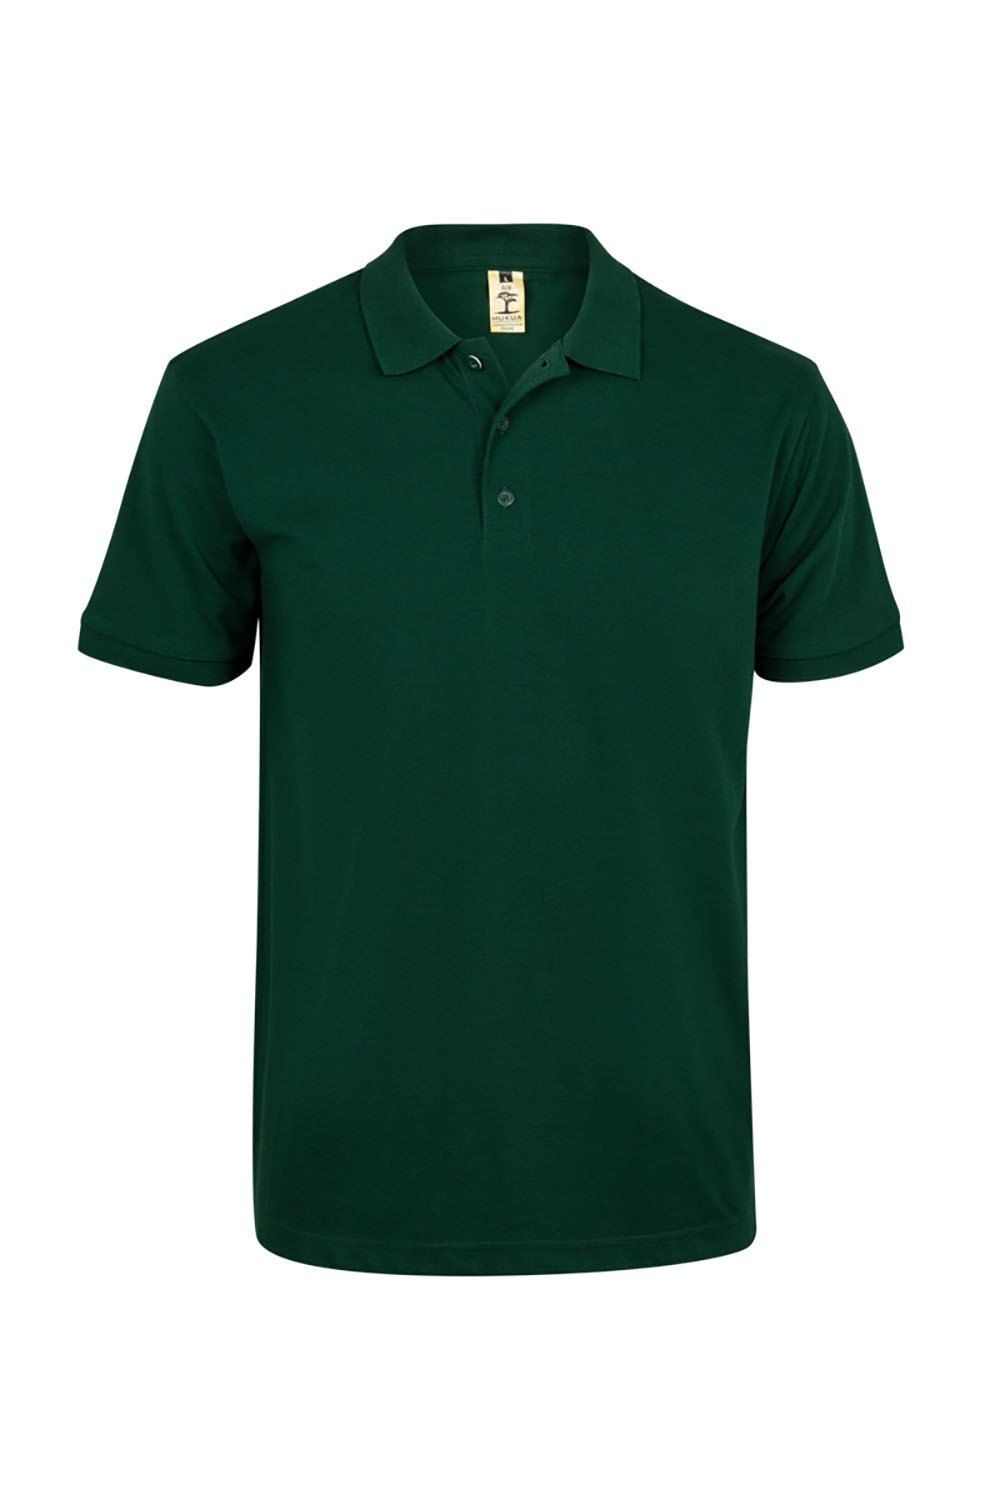
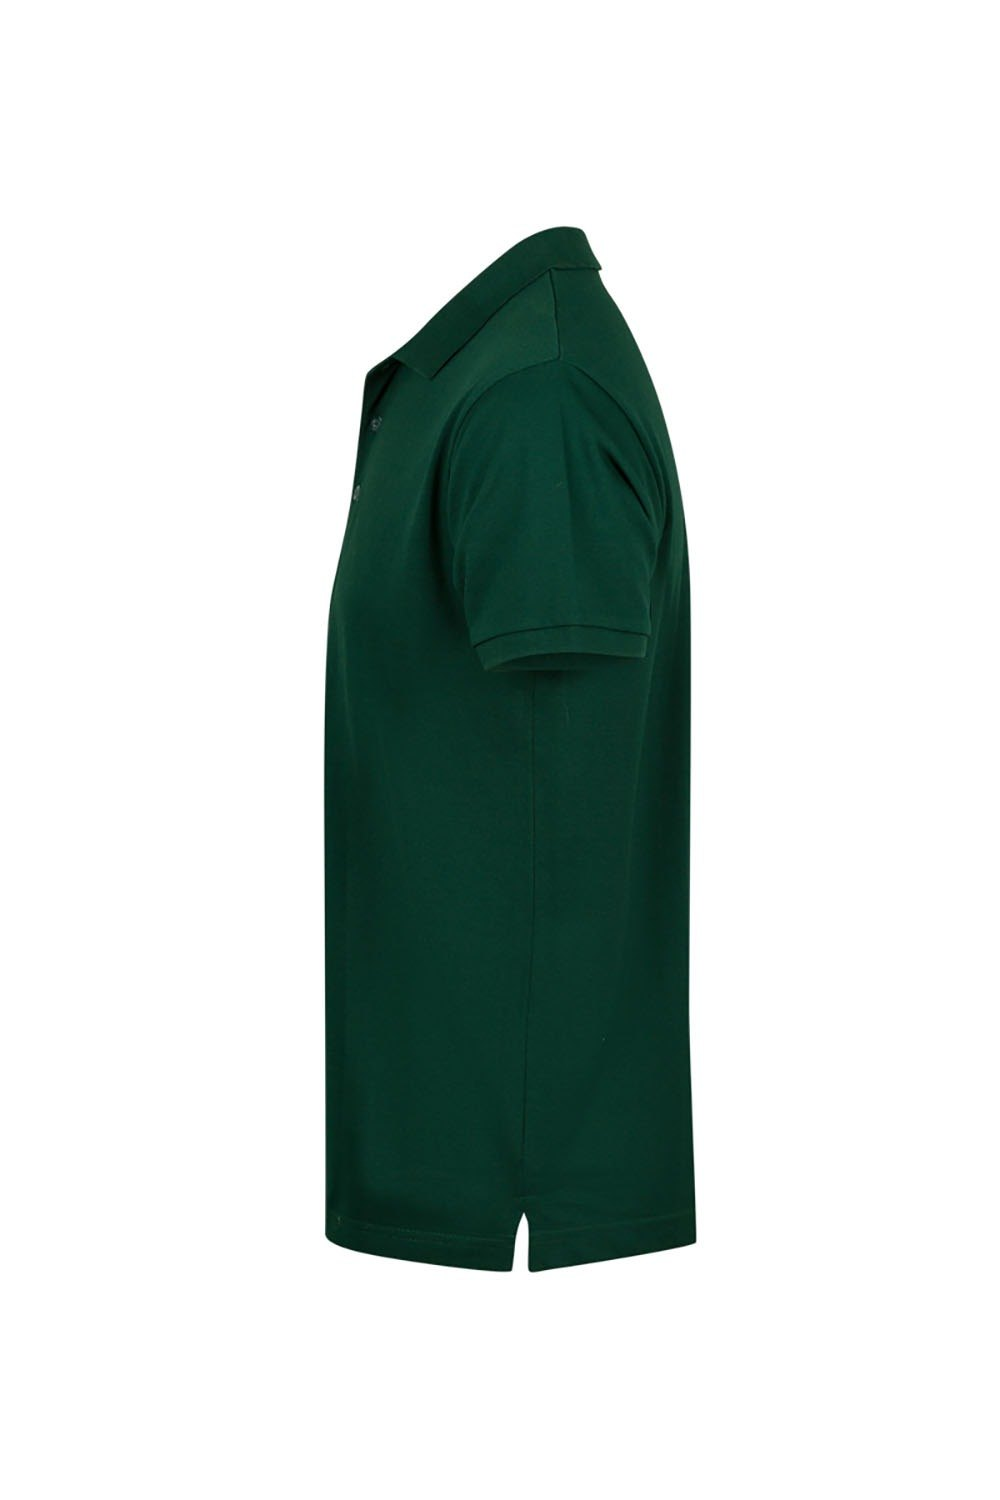
Polo MK215CV : photos par coloris, dix-neuf sur vingt
Cinquante-sept photos d'atelier remplacent la photo de groupe unique du
fournisseur. Seul le blanc reste à photographier ; il garde donc la photo
de groupe en repli, plutôt qu'un polo d'un autre coloris.

Le classement automatique a demandé deux changements de fond, que le
nuancier du t-shirt technique n'exigeait pas :

Le regroupement des vues d'un même vêtement se faisait par proximité de
couleur. De proche en proche, un marron sombre, un noir et un kaki foncé
finissaient dans le même paquet. Les vues d'un même polo se suivant à la
prise de vue, on coupe désormais la suite ordonnée sur les ruptures de
teinte : dix-neuf séries de trois, stable de 18 à 30 de seuil.

L'attribution des coloris se faisait série par série, chacune prenant sa
pastille la plus proche. Deux verts très voisins désignaient tous deux
Kelly Green et laissaient Real Green vide. L'attribution est maintenant
globale et un-à-un : elle minimise le total des écarts, ce qui tranche
d'elle-même ce genre de cas.

Vérifié : les vingt pastilles du catalogue, chaque photo posée à côté de
sa référence fournisseur, et le changement d'image au clic.

diff --git a/src/data/products.ts b/src/data/products.ts
@@ -922,115 +922,209 @@ export const products: Product[] = [
     grammage: "210 g/m²",
     cut: "Regular, patte 3 boutons, fentes latérales",
     sizes: ["S", "M", "L", "XL", "2XL", "3XL", "4XL", "5XL"],
-    // Aucun packshot par coloris publie : seules les pastilles existent.
+    // Le fournisseur ne publie qu'une photo de groupe. Les coloris ci-dessous
+    // portent les visuels pris a l'atelier, herberges avec le site.
     packshotSource: "none",
     colors: [
       {
-        // Blanc vendu sous la reference MK215WV, avec son propre visuel.
         name: "White",
         slug: "100",
         swatch: "https://stospweb0pro01a237.blob.core.windows.net/media/colors/media/thumbnails/100_100.jpg",
-        images: [
-          "https://stospweb0pro01a237.blob.core.windows.net/media/product/media/thumbnails/MK215WV_SERIE_01_1000.jpg",
-        ],
       },
       {
         name: "Black",
         slug: "200",
         swatch: "https://stospweb0pro01a237.blob.core.windows.net/media/colors/media/thumbnails/200_100.jpg",
+        images: [
+          "/textiles/mk215cv/200-face.jpg",
+          "/textiles/mk215cv/200-dos.jpg",
+          "/textiles/mk215cv/200-profil.jpg",
+        ],
       },
       {
         name: "Dark Grey",
         slug: "201",
         swatch: "https://stospweb0pro01a237.blob.core.windows.net/media/colors/media/thumbnails/201_100.jpg",
+        images: [
+          "/textiles/mk215cv/201-face.jpg",
+          "/textiles/mk215cv/201-dos.jpg",
+          "/textiles/mk215cv/201-profil.jpg",
+        ],
       },
       {
         name: "Heather Grey",
         slug: "202",
         swatch: "https://stospweb0pro01a237.blob.core.windows.net/media/colors/media/thumbnails/202_100.jpg",
+        images: [
+          "/textiles/mk215cv/202-face.jpg",
+          "/textiles/mk215cv/202-dos.jpg",
+          "/textiles/mk215cv/202-profil.jpg",
+        ],
       },
       {
         name: "Sand",
         slug: "103",
         swatch: "https://stospweb0pro01a237.blob.core.windows.net/media/colors/media/thumbnails/103_100.jpg",
+        images: [
+          "/textiles/mk215cv/103-face.jpg",
+          "/textiles/mk215cv/103-dos.jpg",
+          "/textiles/mk215cv/103-profil.jpg",
+        ],
       },
       {
         name: "Brown",
         slug: "104",
         swatch: "https://stospweb0pro01a237.blob.core.windows.net/media/colors/media/thumbnails/104_100.jpg",
+        images: [
+          "/textiles/mk215cv/104-face.jpg",
+          "/textiles/mk215cv/104-dos.jpg",
+          "/textiles/mk215cv/104-profil.jpg",
+        ],
       },
       {
         name: "Gold",
         slug: "305",
         swatch: "https://stospweb0pro01a237.blob.core.windows.net/media/colors/media/thumbnails/305_100.jpg",
+        images: [
+          "/textiles/mk215cv/305-face.jpg",
+          "/textiles/mk215cv/305-dos.jpg",
+          "/textiles/mk215cv/305-profil.jpg",
+        ],
       },
       {
         name: "Orange",
         slug: "301",
         swatch: "https://stospweb0pro01a237.blob.core.windows.net/media/colors/media/thumbnails/301_100.jpg",
+        images: [
+          "/textiles/mk215cv/301-face.jpg",
+          "/textiles/mk215cv/301-dos.jpg",
+          "/textiles/mk215cv/301-profil.jpg",
+        ],
       },
       {
         name: "Red",
         slug: "400",
         swatch: "https://stospweb0pro01a237.blob.core.windows.net/media/colors/media/thumbnails/400_100.jpg",
+        images: [
+          "/textiles/mk215cv/400-face.jpg",
+          "/textiles/mk215cv/400-dos.jpg",
+          "/textiles/mk215cv/400-profil.jpg",
+        ],
       },
       {
         name: "Wine",
         slug: "403",
         swatch: "https://stospweb0pro01a237.blob.core.windows.net/media/colors/media/thumbnails/403_100.jpg",
+        images: [
+          "/textiles/mk215cv/403-face.jpg",
+          "/textiles/mk215cv/403-dos.jpg",
+          "/textiles/mk215cv/403-profil.jpg",
+        ],
       },
       {
         name: "Navy",
         slug: "500",
         swatch: "https://stospweb0pro01a237.blob.core.windows.net/media/colors/media/thumbnails/500_100.jpg",
+        images: [
+          "/textiles/mk215cv/500-face.jpg",
+          "/textiles/mk215cv/500-dos.jpg",
+          "/textiles/mk215cv/500-profil.jpg",
+        ],
       },
       {
         name: "Royal Blue",
         slug: "502",
         swatch: "https://stospweb0pro01a237.blob.core.windows.net/media/colors/media/thumbnails/502_100.jpg",
+        images: [
+          "/textiles/mk215cv/502-face.jpg",
+          "/textiles/mk215cv/502-dos.jpg",
+          "/textiles/mk215cv/502-profil.jpg",
+        ],
       },
       {
         name: "Sky Blue",
         slug: "501",
         swatch: "https://stospweb0pro01a237.blob.core.windows.net/media/colors/media/thumbnails/501_100.jpg",
+        images: [
+          "/textiles/mk215cv/501-face.jpg",
+          "/textiles/mk215cv/501-dos.jpg",
+          "/textiles/mk215cv/501-profil.jpg",
+        ],
       },
       {
         name: "Atoll",
         slug: "505",
         swatch: "https://stospweb0pro01a237.blob.core.windows.net/media/colors/media/thumbnails/505_100.jpg",
+        images: [
+          "/textiles/mk215cv/505-face.jpg",
+          "/textiles/mk215cv/505-dos.jpg",
+          "/textiles/mk215cv/505-profil.jpg",
+        ],
       },
       {
         name: "Kelly Green",
         slug: "600",
         swatch: "https://stospweb0pro01a237.blob.core.windows.net/media/colors/media/thumbnails/600_100.jpg",
+        images: [
+          "/textiles/mk215cv/600-face.jpg",
+          "/textiles/mk215cv/600-dos.jpg",
+          "/textiles/mk215cv/600-profil.jpg",
+        ],
       },
       {
         name: "Real Green",
         slug: "605",
         swatch: "https://stospweb0pro01a237.blob.core.windows.net/media/colors/media/thumbnails/605_100.jpg",
+        images: [
+          "/textiles/mk215cv/605-face.jpg",
+          "/textiles/mk215cv/605-dos.jpg",
+          "/textiles/mk215cv/605-profil.jpg",
+        ],
       },
       {
         name: "Khaki Green",
         slug: "601",
         swatch: "https://stospweb0pro01a237.blob.core.windows.net/media/colors/media/thumbnails/601_100.jpg",
+        images: [
+          "/textiles/mk215cv/601-face.jpg",
+          "/textiles/mk215cv/601-dos.jpg",
+          "/textiles/mk215cv/601-profil.jpg",
+        ],
       },
       {
         name: "Bottle Green",
         slug: "602",
         swatch: "https://stospweb0pro01a237.blob.core.windows.net/media/colors/media/thumbnails/602_100.jpg",
+        images: [
+          "/textiles/mk215cv/602-face.jpg",
+          "/textiles/mk215cv/602-dos.jpg",
+          "/textiles/mk215cv/602-profil.jpg",
+        ],
       },
       {
         name: "Sage",
         slug: "613",
         swatch: "https://stospweb0pro01a237.blob.core.windows.net/media/colors/media/thumbnails/613_100.jpg",
+        images: [
+          "/textiles/mk215cv/613-face.jpg",
+          "/textiles/mk215cv/613-dos.jpg",
+          "/textiles/mk215cv/613-profil.jpg",
+        ],
       },
       {
         name: "Lime",
         slug: "604",
         swatch: "https://stospweb0pro01a237.blob.core.windows.net/media/colors/media/thumbnails/604_100.jpg",
+        images: [
+          "/textiles/mk215cv/604-face.jpg",
+          "/textiles/mk215cv/604-dos.jpg",
+          "/textiles/mk215cv/604-profil.jpg",
+        ],
       },
     ],
     certifications: [],
+    // Le blanc n'est pas encore photographie : le visuel par defaut reste la
+    // photo de groupe du fournisseur, plutot qu'un polo d'un autre coloris.
     defaultImages: [
       "https://stospweb0pro01a237.blob.core.windows.net/media/product/media/thumbnails/MK215CV_SERIE_01_1000.jpg",
     ],
